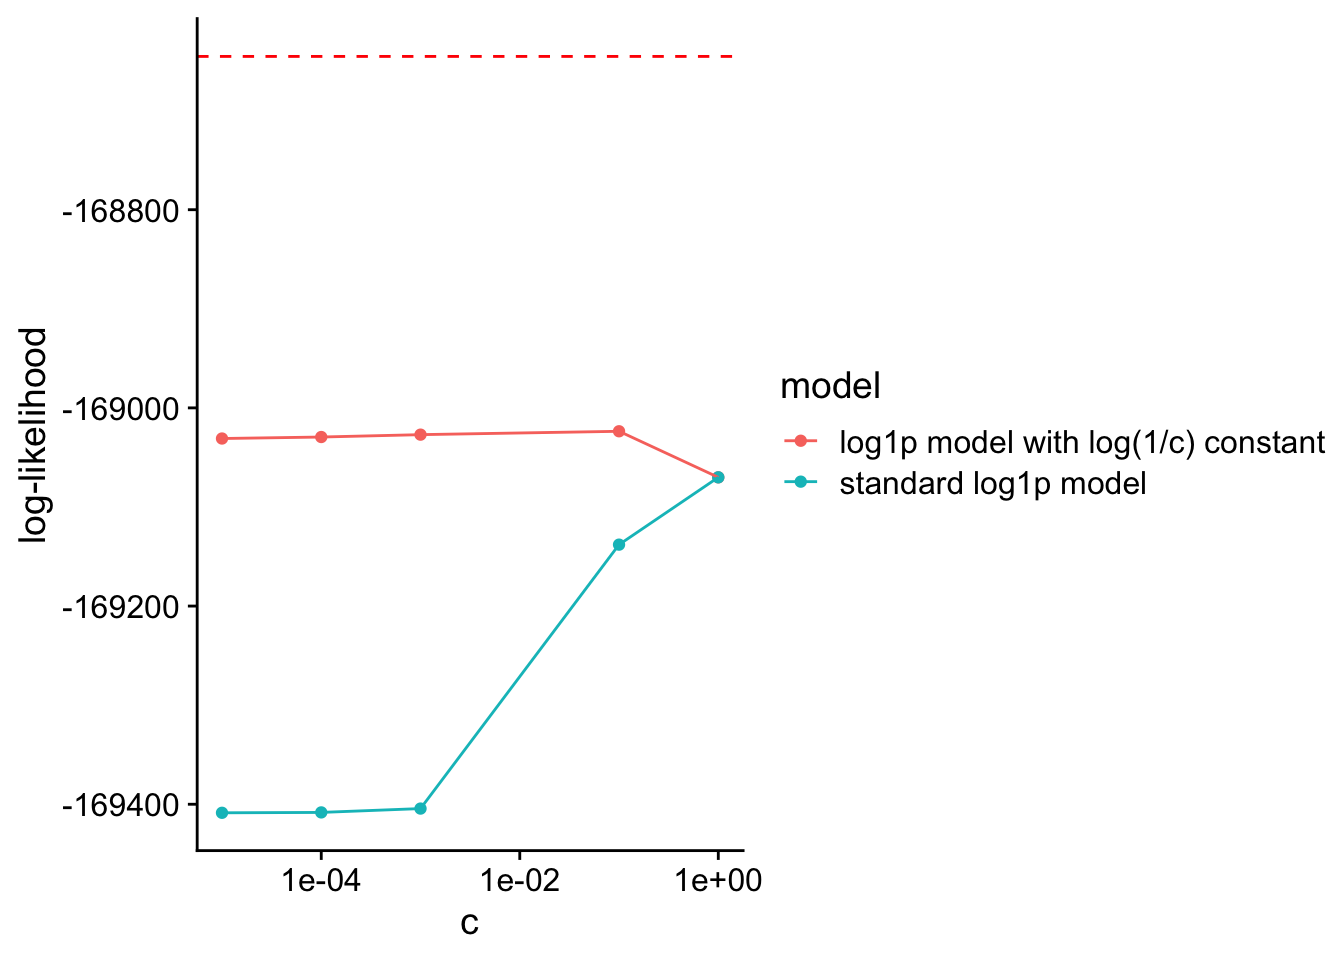
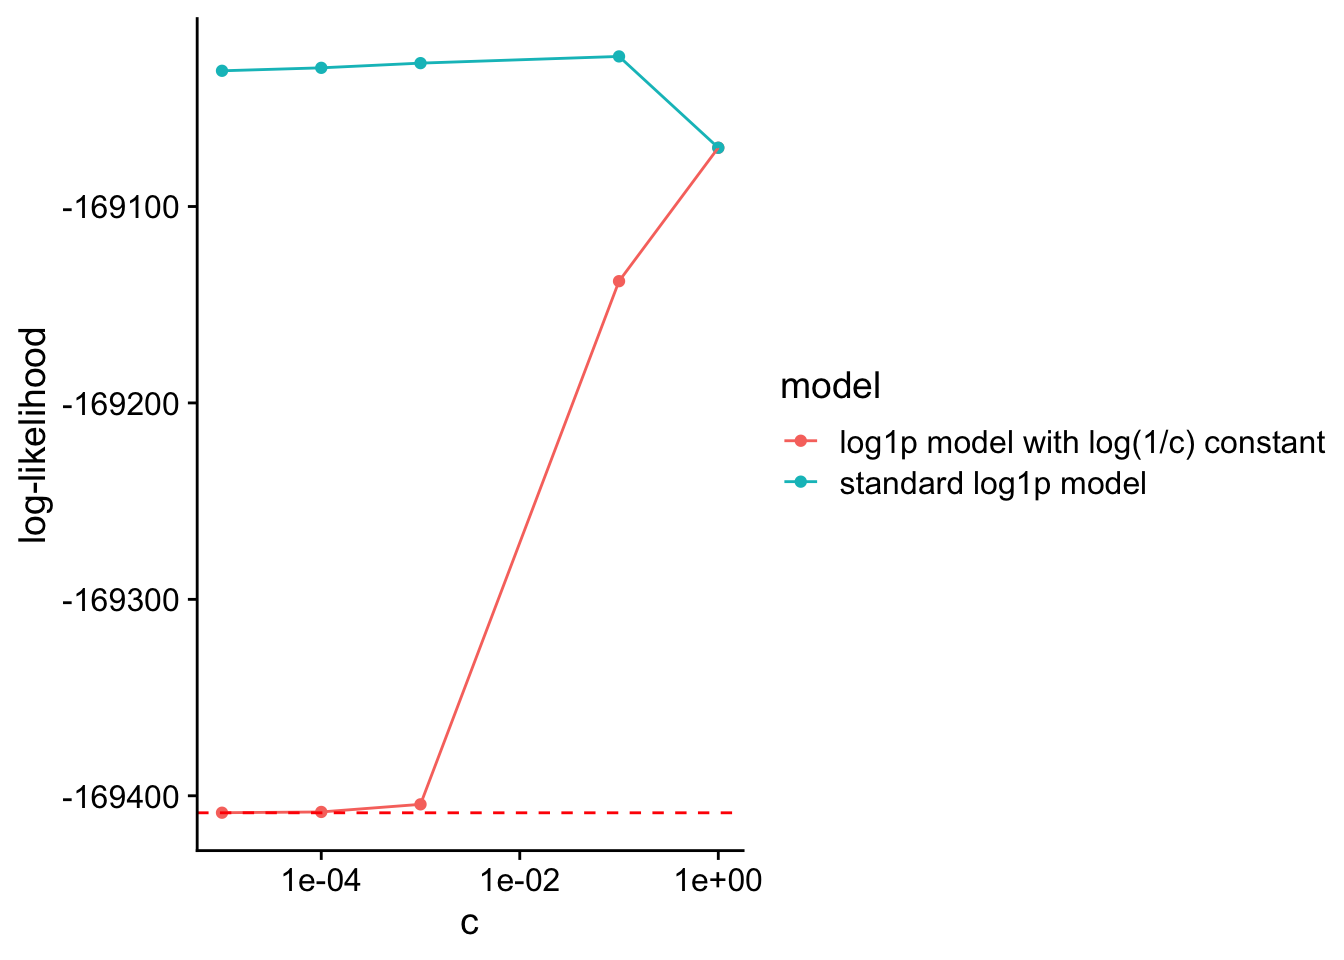
added non negative glmpca

diff --git a/docs/model_connections.html b/docs/model_connections.html
@@ -401,7 +401,7 @@ aria-hidden="true"></span> </a>
 <div class="tab-content">
 <div id="summary" class="tab-pane fade in active">
 <p>
-<strong>Last updated:</strong> 2024-10-31
+<strong>Last updated:</strong> 2024-11-07
 </p>
 <p>
 <strong>Checks:</strong> <span
@@ -535,15 +535,15 @@ project makes it easier to run your code on other machines.</p>
 <div class="panel panel-default">
 <div class="panel-heading">
 <p class="panel-title">
-<a data-toggle="collapse" data-parent="#workflowr-checks" href="#strongRepositoryversionstrongahrefhttpsgithubcomeweinelog1pexperimentstreed209b46f6d23d2095d323f7d650a58d4e7fb0df8targetblankd209b46a">
+<a data-toggle="collapse" data-parent="#workflowr-checks" href="#strongRepositoryversionstrongahrefhttpsgithubcomeweinelog1pexperimentstreeb8b679f20d6732f53364df313cd5e7ec30e3c834targetblankb8b679fa">
 <span class="glyphicon glyphicon-ok text-success"
 aria-hidden="true"></span> <strong>Repository version:</strong>
-<a href="https://github.com/eweine/log1p_experiments/tree/d209b46f6d23d2095d323f7d650a58d4e7fb0df8" target="_blank">d209b46</a>
+<a href="https://github.com/eweine/log1p_experiments/tree/b8b679f20d6732f53364df313cd5e7ec30e3c834" target="_blank">b8b679f</a>
 </a>
 </p>
 </div>
 <div
[2 lines of base64/hex data omitted]
 class="panel-collapse collapse">
 <div class="panel-body">
 <p>
@@ -553,7 +553,7 @@ reproducibility.
 </p>
 <p>
 The results in this page were generated with repository version
-<a href="https://github.com/eweine/log1p_experiments/tree/d209b46f6d23d2095d323f7d650a58d4e7fb0df8" target="_blank">d209b46</a>.
+<a href="https://github.com/eweine/log1p_experiments/tree/b8b679f20d6732f53364df313cd5e7ec30e3c834" target="_blank">b8b679f</a>.
 See the <em>Past versions</em> tab to see a history of the changes made
 to the R Markdown and HTML files.
 </p>
@@ -617,6 +617,40 @@ Message
 </tr>
 </thead>
 <tbody>
+<tr>
+<td>
+Rmd
+</td>
+<td>
+<a href="https://github.com/eweine/log1p_experiments/blob/b8b679f20d6732f53364df313cd5e7ec30e3c834/analysis/model_connections.Rmd" target="_blank">b8b679f</a>
+</td>
+<td>
+Eric Weine
+</td>
+<td>
+2024-10-31
+</td>
+<td>
+added commentary
+</td>
+</tr>
+<tr>
+<td>
+html
+</td>
+<td>
+<a href="https://rawcdn.githack.com/eweine/log1p_experiments/b8b679f20d6732f53364df313cd5e7ec30e3c834/docs/model_connections.html" target="_blank">b8b679f</a>
+</td>
+<td>
+Eric Weine
+</td>
+<td>
+2024-10-31
+</td>
+<td>
+added commentary
+</td>
+</tr>
 <tr>
 <td>
 Rmd
@@ -1253,7 +1287,8 @@ y_{ij} &amp;\sim \textrm{Poisson}(\lambda_{ij}) \\
 \end{align}\]</span></p>
 <p>I simulated data under the same GLM-PCA model as above and compared
 the results of fitting the log1p models with various values of c without
-adding a constant and with adding a constant. The results are shown
+adding a constant and with adding a constant. I also fit GLMPCA, but
+this time with non-negative constraints. The results are shown
 below.</p>
 <pre class="r"><code>set.seed(10)
 n &lt;- 500
@@ -1382,7 +1417,7 @@ add_const_res &lt;- list(
 
 df_plot &lt;- data.frame(
   ll = c(
-    add_const_res$df$ll_no_const, add_const_res$df$ll_add_const
+    add_const_res$df$ll_add_const, add_const_res$df$ll_no_const
     ),
   model = c(
     rep(&quot;log1p model with log(1/c) constant&quot;, nrow(add_const_res$df)), 
@@ -1437,23 +1472,6 @@ Eric Weine
 </table>
 </div>
 </div>
-<p>The results are surprising, but I think possibly what is going on is
-that as you make the value of <span class="math inline">\(c\)</span>
-smaller, you are forcing the minimum value of lambda approach <span
-class="math inline">\(1\)</span>. Now, you might think this would be
-fine because the true minimum value of lambda is <span
-class="math inline">\(1\)</span>. However, looking at the GLM-PCA model,
-the minimum fitted value of lambda is about <span
-class="math inline">\(0.25\)</span>. So, I think what might be going on
-here is that GLM-PCA has an advantage because it is optimizing over an
-un-constrained parameter space where the log1p model with a constant is
-not. Perhaps if I refit the log1p model but instead of thresholding
-<span class="math inline">\(\boldsymbol{L}\)</span> and <span
-class="math inline">\(\boldsymbol{F}\)</span> at <span
-class="math inline">\(0\)</span>, I threshold them at <span
-class="math inline">\(\log(c)\)</span>, then the results of this model
-will approach the same log-likelihood of the GLM-PCA model. On the other
-hand, this will no longer be a non-negative matrix factorization…</p>
 <br>
 <p>
 <button type="button" class="btn btn-default btn-workflowr btn-workflowr-sessioninfo" data-toggle="collapse" data-target="#workflowr-sessioninfo" style="display: block;">
